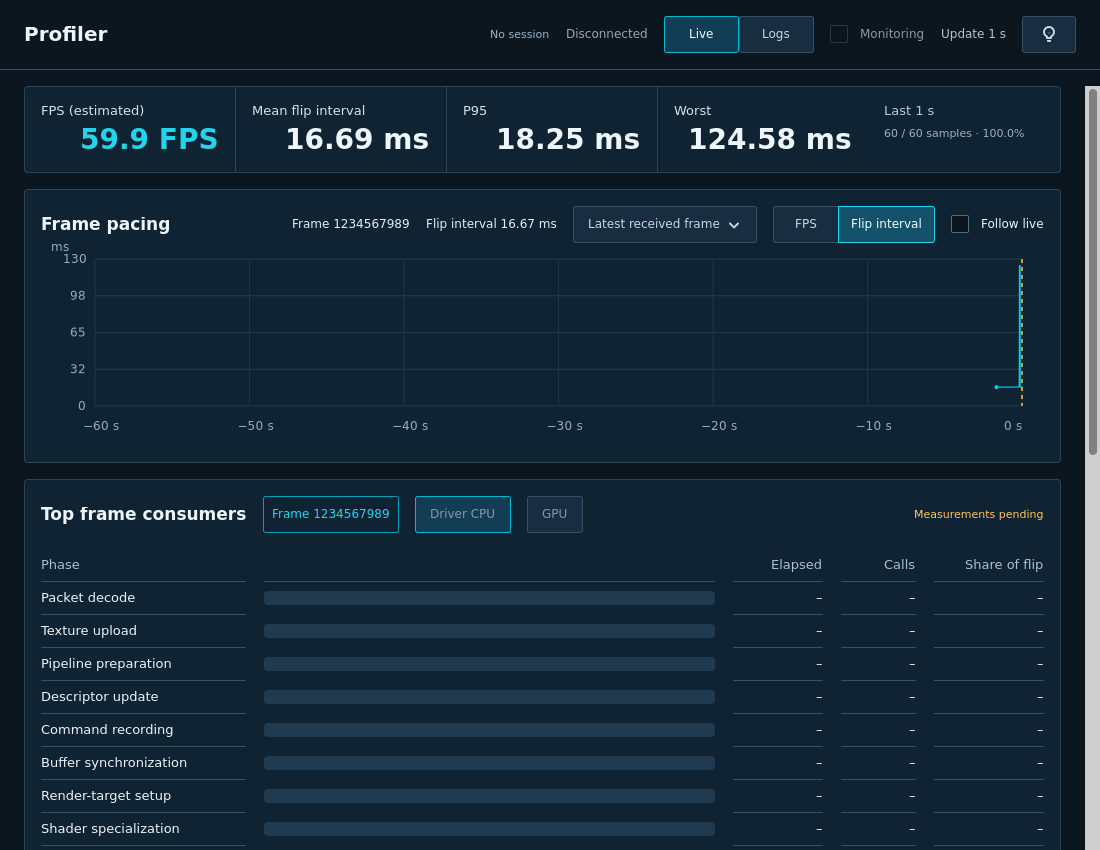
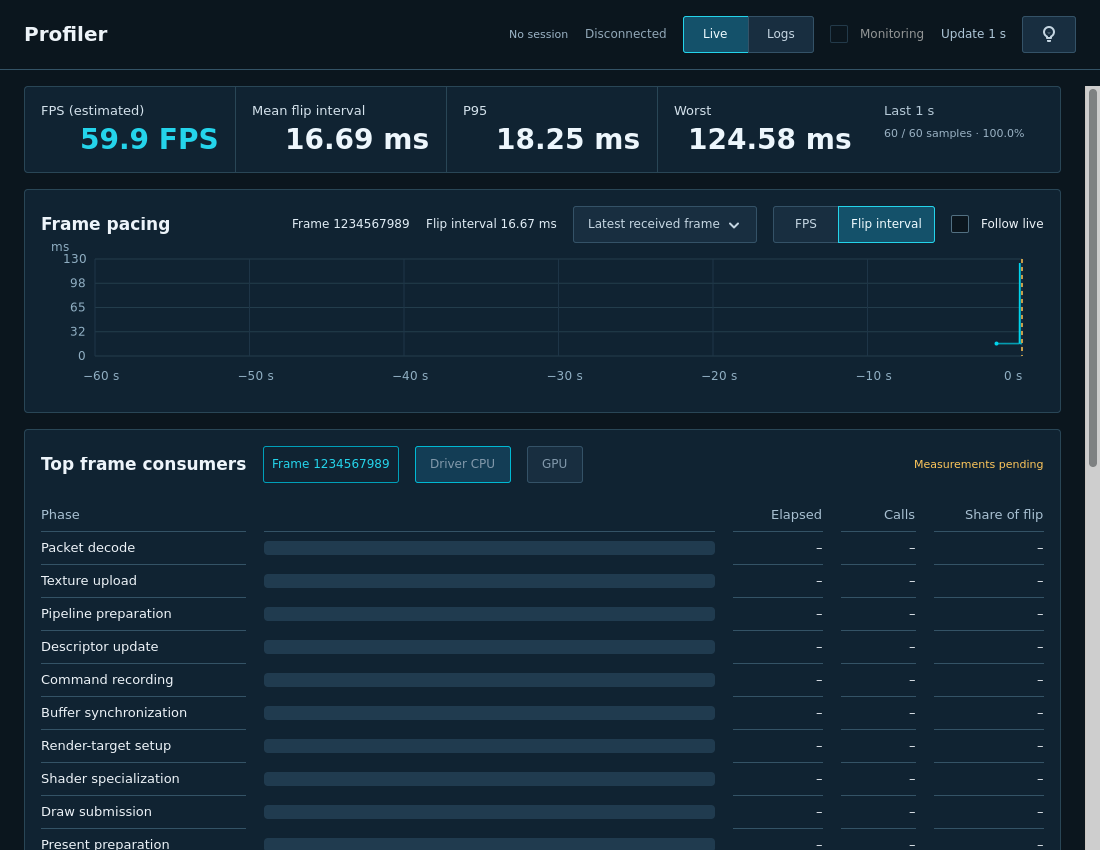
fix(profiler): share view controls and compact the 75 FPS chart

diff --git a/assets/ui/style.css b/assets/ui/style.css
@@ -73,7 +73,6 @@ button { box-shadow: none; text-shadow: none; }
 .monitoring-state.active { color: #8adbb3; }
 .monitoring-state.pending, .work-active { color: #ffc75b; }
 .monitor-control-label { font-size: 12px; color: #adc5d6; }
-.profiler-tabs button { min-width: 45px; padding: 3px 14px; }
 .profiler-card { padding: 16px; border: 1px solid #294656; border-radius: 4px; background: #102332; }
 .profiler-card.metric-strip { padding: 0; }
 .metric-card { padding: 16px; border-right: 1px solid #294656; }

diff --git a/src/ui/profiler.cpp b/src/ui/profiler.cpp
@@ -72,13 +72,14 @@ std::uint64_t chart_end(const MonitoringSnapshot& snapshot) {
 }
 
 double chart_maximum(const MonitoringSnapshot& snapshot, bool fps) {
+    if (fps) return 75.0;
     double maximum = 0;
     const auto end = chart_end(snapshot);
     for (std::size_t i = 0; i < snapshot.samples.size(); ++i) {
         if (end - snapshot.samples[i].timestamp_us > 60000000) continue;
         if (const auto value = chart_value(snapshot, i, fps)) maximum = std::max(maximum, *value);
     }
-    return fps ? std::max(90.0, std::ceil(maximum / 30.0) * 30.0) : std::max(25.0, std::ceil(maximum / 10.0) * 10.0);
+    return std::max(25.0, std::ceil(maximum / 10.0) * 10.0);
 }
 
 } // namespace
@@ -102,10 +103,14 @@ ProfilerView::ProfilerView(std::function<void(bool)> request_monitoring)
     gtk_box_append(GTK_BOX(header), status_);
     bridge_connection_ = label("Disconnected", "bridge-connection");
     gtk_box_append(GTK_BOX(header), bridge_connection_);
-    auto* tabs = gtk_stack_switcher_new();
-    gtk_stack_switcher_set_stack(GTK_STACK_SWITCHER(tabs), GTK_STACK(workspace));
-    gtk_widget_add_css_class(tabs, "profiler-tabs");
-    gtk_box_append(GTK_BOX(header), tabs);
+    const auto tabs = ui::segmented_control("Live", "Logs");
+    g_signal_connect_object(tabs.first, "toggled", G_CALLBACK(+[](GtkToggleButton* button, gpointer data) {
+        if (gtk_toggle_button_get_active(button)) gtk_stack_set_visible_child_name(GTK_STACK(data), "live");
+    }), workspace, G_CONNECT_DEFAULT);
+    g_signal_connect_object(tabs.second, "toggled", G_CALLBACK(+[](GtkToggleButton* button, gpointer data) {
+        if (gtk_toggle_button_get_active(button)) gtk_stack_set_visible_child_name(GTK_STACK(data), "logs");
+    }), workspace, G_CONNECT_DEFAULT);
+    gtk_box_append(GTK_BOX(header), tabs.root);
     monitoring_toggle_ = gtk_check_button_new_with_label("Monitoring");
     gtk_widget_set_sensitive(monitoring_toggle_, false);
     g_signal_connect(monitoring_toggle_, "toggled", G_CALLBACK(+[](GtkCheckButton* button, gpointer data) {
@@ -226,7 +231,7 @@ ProfilerView::ProfilerView(std::function<void(bool)> request_monitoring)
     chart_header_ = chart_header;
     gtk_widget_add_css_class(chart_header, "chart-header-overlay");
     chart_ = gtk_drawing_area_new();
-    gtk_drawing_area_set_content_height(GTK_DRAWING_AREA(chart_), 240);
+    gtk_drawing_area_set_content_height(GTK_DRAWING_AREA(chart_), 190);
     gtk_widget_set_hexpand(chart_, true);
     gtk_widget_set_tooltip_text(chart_, "FPS counts completed flips in the preceding source second. Click a sample to inspect. Missing samples are not interpolated.");
     gtk_drawing_area_set_draw_func(GTK_DRAWING_AREA(chart_), +[](GtkDrawingArea*, cairo_t* context, int width, int height, gpointer data) {
@@ -788,7 +793,7 @@ void ProfilerView::draw_chart(cairo_t* context, int width, int height) noexcept 
         const double maximum = chart_maximum(monitoring_, chart_fps_);
         cairo_select_font_face(context, "Sans", CAIRO_FONT_SLANT_NORMAL, CAIRO_FONT_WEIGHT_NORMAL);
         cairo_set_font_size(context, 12);
-        const unsigned ticks = chart_fps_ ? 3 : 4;
+        const unsigned ticks = chart_fps_ ? 5 : 4;
         for (unsigned tick = 0; tick <= ticks; ++tick) {
             const double y = chart_top + plot_height * tick / ticks;
             cairo_set_source_rgb(context, 0.14, 0.24, 0.30);

diff --git a/docs/profiling.md b/docs/profiling.md
@@ -9,7 +9,7 @@ Additional attribution terms: see NOTICE in the repository root.
 
 The Profiler has **Live** and **Logs** views for an externally launched game. The Logs view's output-only VTE terminal receives merged stdout/stderr directly, interprets terminal colors and progress updates, and retains 5000 scrollback lines. The runtime also writes the complete raw session log at `<framerift-data-root>/logs/<game-id>/<session-id>/game.log`; display-only LF-to-CRLF normalization leaves that file unchanged. There is no shell, PTY or file polling. Disable Follow output and scroll up to inspect earlier output; the Copy button, Ctrl+C or Ctrl+Shift+C copies selected text. Logs remain visible after process exit and the terminal clears for the next session.
 
-The Live view uses the [UDP debug bridge and MCP server](debug-bridge.md). Managed game starts automatically request **Monitoring** after the bridge handshake, including starts through MCP. The toggle can disable it for that session. Monitoring receives successful main-output flip summaries from a bridge-enabled AnyPS5 build. The dashboard updates once per second with estimated FPS, mean/P95/worst flip interval, sample coverage, latest/worst frame details and a bounded 60-second history. The chart defaults to **FPS**; a segmented control always shows both **FPS** and **Flip interval**, with the active mode highlighted. Frame identity, interval and latest/worst selection sit in the chart header overlay; output identity is available in the frame tooltip. FPS history counts completed flips in the preceding source second, requiring a reliable full-second baseline; it does not invert each individual interval. Brief catch-up flips therefore do not create artificial 400-FPS spikes. Missing samples and pauses of at least one second break the line, and the live time axis advances while frames stop arriving. The overview FPS estimate remains the reciprocal of the mean valid interval in its displayed source window. Selecting a chart point preserves that frame until Follow live is resumed. Collection continues across tab changes; stop/disconnect retains the last observation with an explicit inactive/stale state.
+The Live view uses the [UDP debug bridge and MCP server](debug-bridge.md). Managed game starts automatically request **Monitoring** after the bridge handshake, including starts through MCP. The toggle can disable it for that session. Monitoring receives successful main-output flip summaries from a bridge-enabled AnyPS5 build. The dashboard updates once per second with estimated FPS, mean/P95/worst flip interval, sample coverage, latest/worst frame details and a bounded 60-second history. Live/Logs and chart mode use the same segmented control. The compact chart has a fixed FPS axis from 0 to 75; higher observations remain in the measurements but are clipped in the plot. Flip interval keeps its automatic scale. The chart defaults to **FPS**; a segmented control always shows both **FPS** and **Flip interval**, with the active mode highlighted. Frame identity, interval and latest/worst selection sit in the chart header overlay; output identity is available in the frame tooltip. FPS history counts completed flips in the preceding source second, requiring a reliable full-second baseline; it does not invert each individual interval. Brief catch-up flips therefore do not create artificial 400-FPS spikes. Missing samples and pauses of at least one second break the line, and the live time axis advances while frames stop arriving. The overview FPS estimate remains the reciprocal of the mean valid interval in its displayed source window. Selecting a chart point preserves that frame until Follow live is resumed. Collection continues across tab changes; stop/disconnect retains the last observation with an explicit inactive/stale state.
 
 The same normalized model is available through `get_monitoring_snapshot`. Game-side monotonic timestamps determine intervals and source windows; UDP receive age determines freshness. The first completion after activation or output reset has no interval. Per-stream completion IDs identify missing samples separately from general packet gaps and producer drops. The dashboard does not acknowledge telemetry, parse timing files or enable existing timing/draw/GPU log settings. CPU hotspots, GPU execution tables, saved snapshots and screenshots remain later increments.
 

diff --git a/docs/profiler-design-review.md b/docs/profiler-design-review.md
@@ -23,6 +23,8 @@ The current layout was checked in an isolated GTK window using the actual Profil
 
 ![Narrow native fixture: flip interval and unchecked controls](../assets/screenshots/profiler-controls-narrow.png)
 
+![Logs selection using the same segmented control](../assets/screenshots/profiler-logs-control.png)
+
 ![Narrow native fixture: scrolled resources](../assets/screenshots/profiler-controls-resources.png)
 
 ## Visual direction
@@ -33,7 +35,9 @@ Cards use 16 px internal padding and 16 px section/column gaps. Shader work and 
 
 ## Verification
 
-The revised controls were inspected at 1500 × 1150 and 1100 × 850. Both mode captions remain readable with a ten-digit frame ID and a three-digit worst interval. Native toggling confirms mutual exclusion and redraw in both modes. Follow live and Monitoring were checked on and off; the indicator allocation is 16 × 16 without inherited theme padding. Disabled controls remain distinct from enabled options. Narrow layouts stack the resource column; scrolling exposes the complete shader/memory cards without horizontal overflow. All dashboard card containers share one factory and CSS class, 16 px padding/gaps and 4 px corners. Theme-independent button foregrounds are explicit.
+Live/Logs reuses the chart segmented control. Native mouse clicks verify switching to Logs and returning to Live while preserving chart mode. The chart drawing area is 190 px high and the FPS axis is fixed at 0–75 with 15-FPS ticks; interval mode still scales automatically.
+
+The revised controls were inspected at 1500 × 1050 and 1100 × 850. Both mode captions remain readable with a ten-digit frame ID and a three-digit worst interval. Native toggling confirms mutual exclusion and redraw in both modes. Follow live and Monitoring were checked on and off; the indicator allocation is 16 × 16 without inherited theme padding. Disabled controls remain distinct from enabled options. Narrow layouts stack the resource column; scrolling exposes the complete shader/memory cards without horizontal overflow. All dashboard card containers share one factory and CSS class, 16 px padding/gaps and 4 px corners. Theme-independent button foregrounds are explicit.
 
 - Native shell check: connection status remains beside Profiler on both pages; search and refresh are visible in Library and hidden in Profiler. Branding, Settings and window controls keep the shared shell styling.
 - Native build succeeds (`cmake --build build -j2`); the previous workspace implementation also passed a full clean build.
